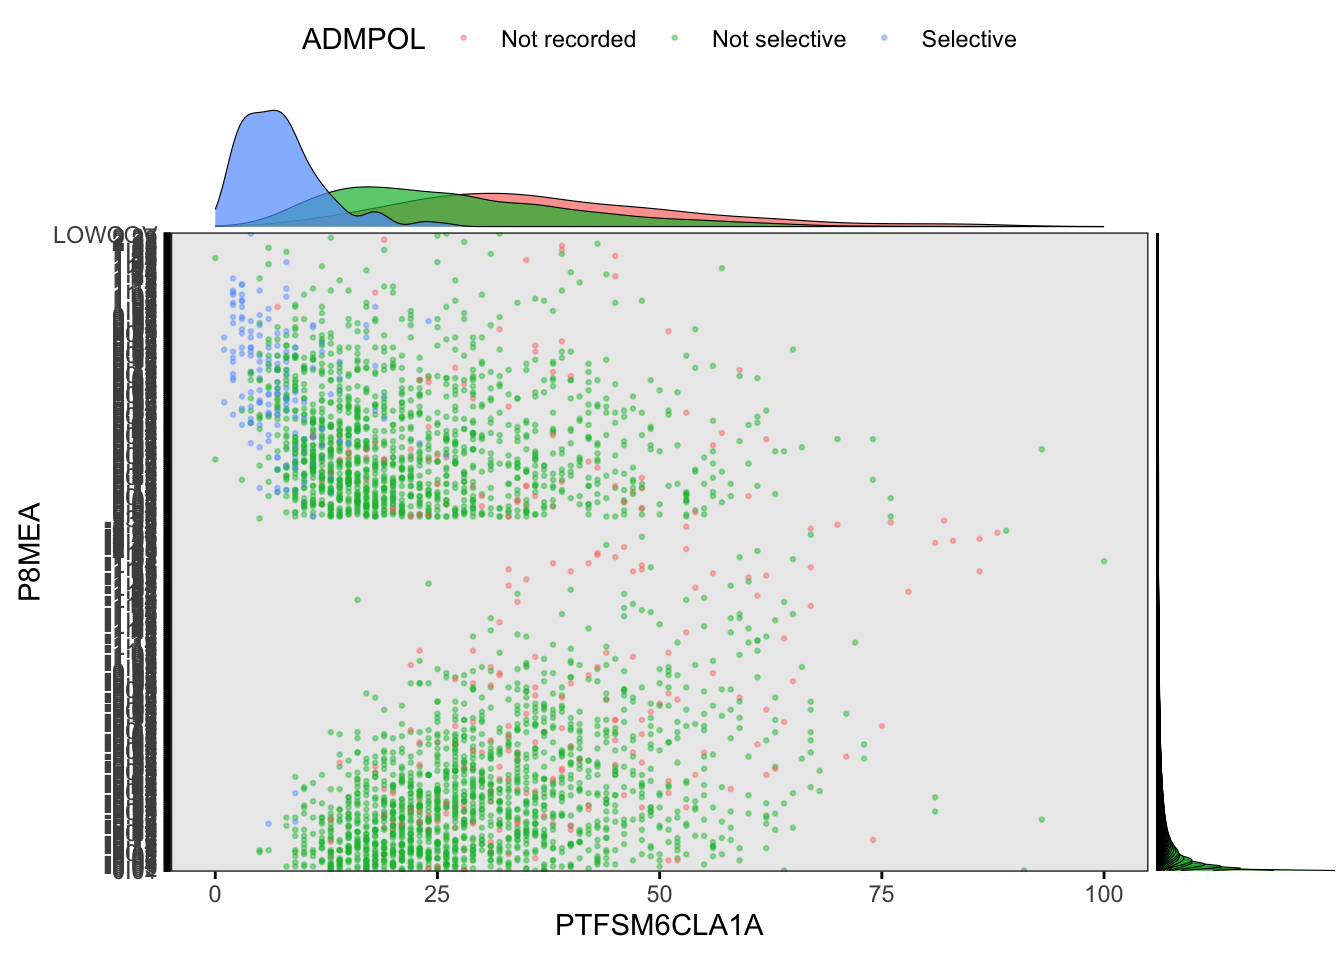
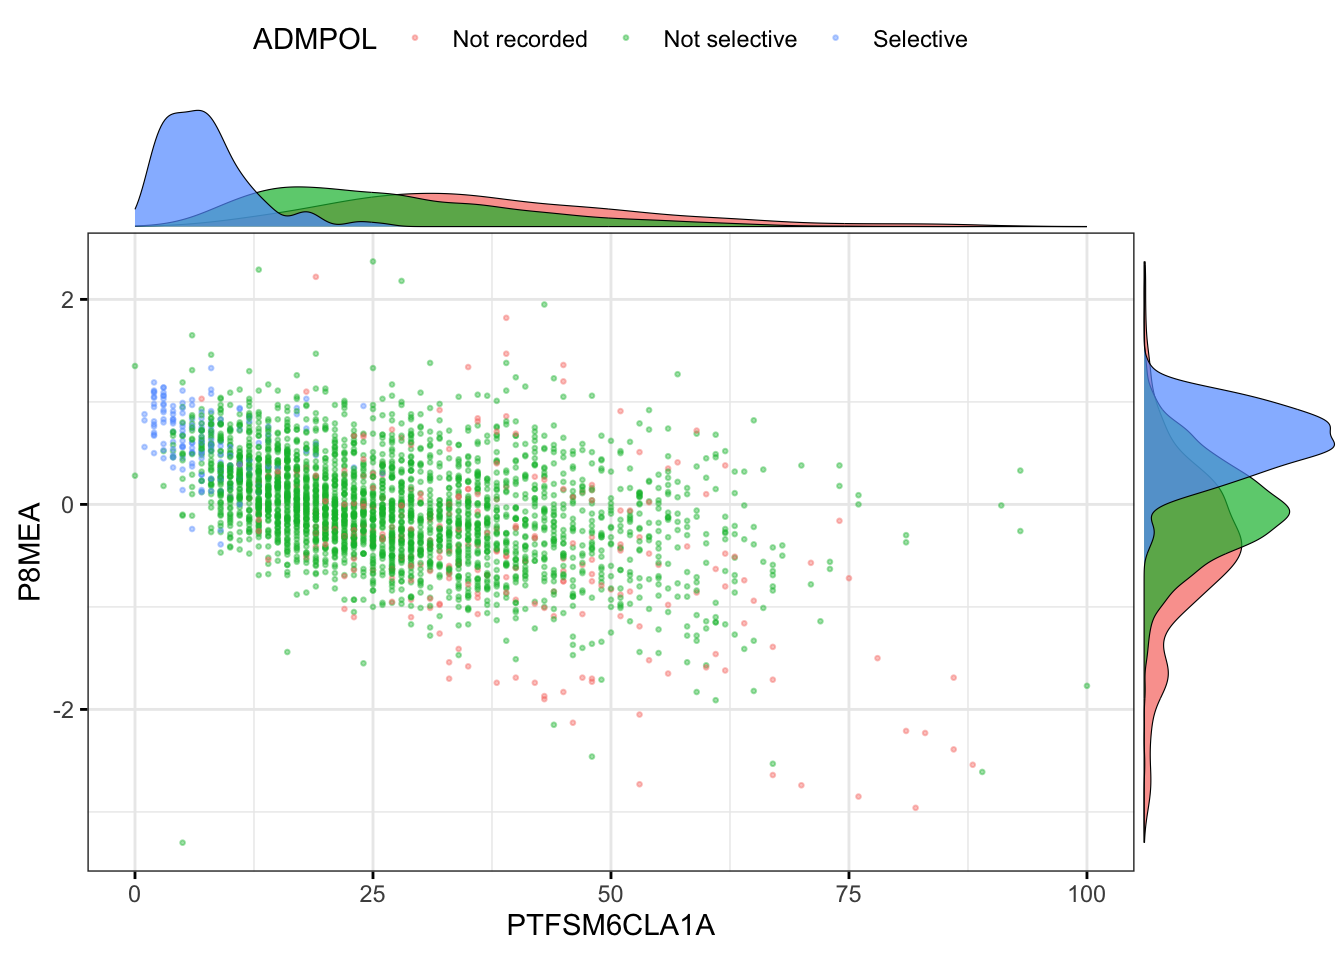
Add files via upload

diff --git a/posts/P8Analysis/P8Analysis.html b/posts/P8Analysis/P8Analysis.html
@@ -6,6 +6,8 @@
 
 <meta name="viewport" content="width=device-width, initial-scale=1.0, user-scalable=yes">
 
+<meta name="author" content="Richard Brock and Peter Kemp">
+<meta name="dcterms.date" content="2023-11-06">
 
 <title>mastemquantblog - P8Data20222023</title>
 <style>
@@ -147,7 +149,19 @@ pre > code.sourceCode > span > a:first-child::before { text-decoration: underlin
   
   <div class="quarto-title-meta">
 
+      <div>
+      <div class="quarto-title-meta-heading">Author</div>
+      <div class="quarto-title-meta-contents">
+               <p>Richard Brock and Peter Kemp </p>
+            </div>
+    </div>
       
+      <div>
+      <div class="quarto-title-meta-heading">Published</div>
+      <div class="quarto-title-meta-contents">
+        <p class="date">November 6, 2023</p>
+      </div>
+    </div>
     
       
     </div>
@@ -262,13 +276,14 @@ See problems(...) for more details.</code></pre>
 <span id="cb18-13"><a href="#cb18-13" aria-hidden="true" tabindex="-1"></a>  <span class="fu">mutate</span>(<span class="at">ADMPOL=</span><span class="fu">ifelse</span>(ADMPOL<span class="sc">==</span><span class="st">"NR"</span>,<span class="st">"Not recorded"</span>,</span>
 <span id="cb18-14"><a href="#cb18-14" aria-hidden="true" tabindex="-1"></a>                       <span class="fu">ifelse</span>(ADMPOL<span class="sc">==</span><span class="st">"SEL"</span>,<span class="st">"Selective"</span>, </span>
 <span id="cb18-15"><a href="#cb18-15" aria-hidden="true" tabindex="-1"></a>                              <span class="fu">ifelse</span>(ADMPOL<span class="sc">==</span><span class="st">"NSE"</span>,<span class="st">"Not selective"</span>, <span class="cn">NA</span>))))</span>
-<span id="cb18-16"><a href="#cb18-16" aria-hidden="true" tabindex="-1"></a></span>
-<span id="cb18-17"><a href="#cb18-17" aria-hidden="true" tabindex="-1"></a>plotdata<span class="sc">$</span>PTFSM6CLA1A<span class="ot">&lt;-</span><span class="fu">parse_number</span>(plotdata<span class="sc">$</span>PTFSM6CLA1A)</span>
-<span id="cb18-18"><a href="#cb18-18" aria-hidden="true" tabindex="-1"></a></span>
-<span id="cb18-19"><a href="#cb18-19" aria-hidden="true" tabindex="-1"></a><span class="fu">ggscatterhist</span>(<span class="at">data=</span>plotdata, <span class="at">y=</span><span class="st">"P8MEA"</span>, <span class="at">x=</span><span class="st">"PTFSM6CLA1A"</span>,</span>
-<span id="cb18-20"><a href="#cb18-20" aria-hidden="true" tabindex="-1"></a>              <span class="at">color =</span><span class="st">"ADMPOL"</span>, <span class="at">size =</span> <span class="fl">0.5</span>, <span class="at">alpha =</span> <span class="fl">0.4</span>,</span>
-<span id="cb18-21"><a href="#cb18-21" aria-hidden="true" tabindex="-1"></a>              <span class="at">margin.params =</span> <span class="fu">list</span>(<span class="at">fill =</span> <span class="st">"ADMPOL"</span>, <span class="at">color =</span> <span class="st">"black"</span>, <span class="at">size =</span> <span class="fl">0.2</span>),</span>
-<span id="cb18-22"><a href="#cb18-22" aria-hidden="true" tabindex="-1"></a>              <span class="at">ggtheme =</span> <span class="fu">theme_bw</span>())</span></code><button title="Copy to Clipboard" class="code-copy-button"><i class="bi"></i></button></pre></div>
+<span id="cb18-16"><a href="#cb18-16" aria-hidden="true" tabindex="-1"></a>plotdata<span class="sc">$</span>P8MEA<span class="ot">&lt;-</span><span class="fu">as.numeric</span>(plotdata<span class="sc">$</span>P8MEA)</span>
+<span id="cb18-17"><a href="#cb18-17" aria-hidden="true" tabindex="-1"></a></span>
+<span id="cb18-18"><a href="#cb18-18" aria-hidden="true" tabindex="-1"></a>plotdata<span class="sc">$</span>PTFSM6CLA1A<span class="ot">&lt;-</span><span class="fu">parse_number</span>(plotdata<span class="sc">$</span>PTFSM6CLA1A)</span>
+<span id="cb18-19"><a href="#cb18-19" aria-hidden="true" tabindex="-1"></a></span>
+<span id="cb18-20"><a href="#cb18-20" aria-hidden="true" tabindex="-1"></a><span class="fu">ggscatterhist</span>(<span class="at">data=</span>plotdata, <span class="at">y=</span><span class="st">"P8MEA"</span>, <span class="at">x=</span><span class="st">"PTFSM6CLA1A"</span>,</span>
+<span id="cb18-21"><a href="#cb18-21" aria-hidden="true" tabindex="-1"></a>              <span class="at">color =</span><span class="st">"ADMPOL"</span>, <span class="at">size =</span> <span class="fl">0.5</span>, <span class="at">alpha =</span> <span class="fl">0.4</span>,</span>
+<span id="cb18-22"><a href="#cb18-22" aria-hidden="true" tabindex="-1"></a>              <span class="at">margin.params =</span> <span class="fu">list</span>(<span class="at">fill =</span> <span class="st">"ADMPOL"</span>, <span class="at">color =</span> <span class="st">"black"</span>, <span class="at">size =</span> <span class="fl">0.2</span>),</span>
+<span id="cb18-23"><a href="#cb18-23" aria-hidden="true" tabindex="-1"></a>              <span class="at">ggtheme =</span> <span class="fu">theme_bw</span>())</span></code><button title="Copy to Clipboard" class="code-copy-button"><i class="bi"></i></button></pre></div>
 <div class="cell-output-display">
 <p><img src="P8Analysis_files/figure-html/unnamed-chunk-3-1.png" class="img-fluid" width="672"></p>
 </div>

diff --git a/index.html b/index.html
@@ -195,7 +195,7 @@ Richard Brock and Peter Kemp
 </a>
 </div>
 </div>
-<div class="quarto-post image-right" data-index="1" data-listing-date-sort="1699228800000" data-listing-file-modified-sort="1699258749626" data-listing-date-modified-sort="NaN" data-listing-reading-time-sort="1">
+<div class="quarto-post image-right" data-index="1" data-listing-date-sort="1699228800000" data-listing-file-modified-sort="1699260666199" data-listing-date-modified-sort="NaN" data-listing-reading-time-sort="1">
 <div class="thumbnail">
 <p><a href="./posts/P8Analysis/P8Analysis.html"> <p class="card-img-top"><img src="posts/P8Analysis/P8Analysis_files/figure-html/unnamed-chunk-2-1.png"  class="thumbnail-image card-img"/></p> </a></p>
 </div>
